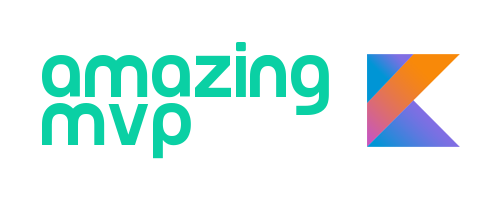
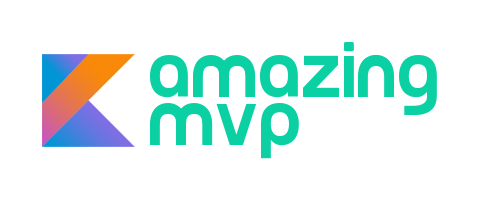
Fix readme and better image

Changed region(s): [[0.06, 0.21, 0.93, 0.81]]

diff --git a/README.md b/README.md
@@ -1,6 +1,6 @@
 ![Logo 1][1]
 
-[![Build Status](https://api.travis-ci.org/We-Mobile/Amazing-MVP-Kotlin).svg?branch=master)](https://travis-ci.org/ppamorim/Amazing-MVP-Kotlin)
+[![Build Status](https://api.travis-ci.org/ppamorim/Amazing-MVP).svg?branch=master)](https://travis-ci.org/ppamorim/Amazing-MVP)
 
 How to use
 ----------
